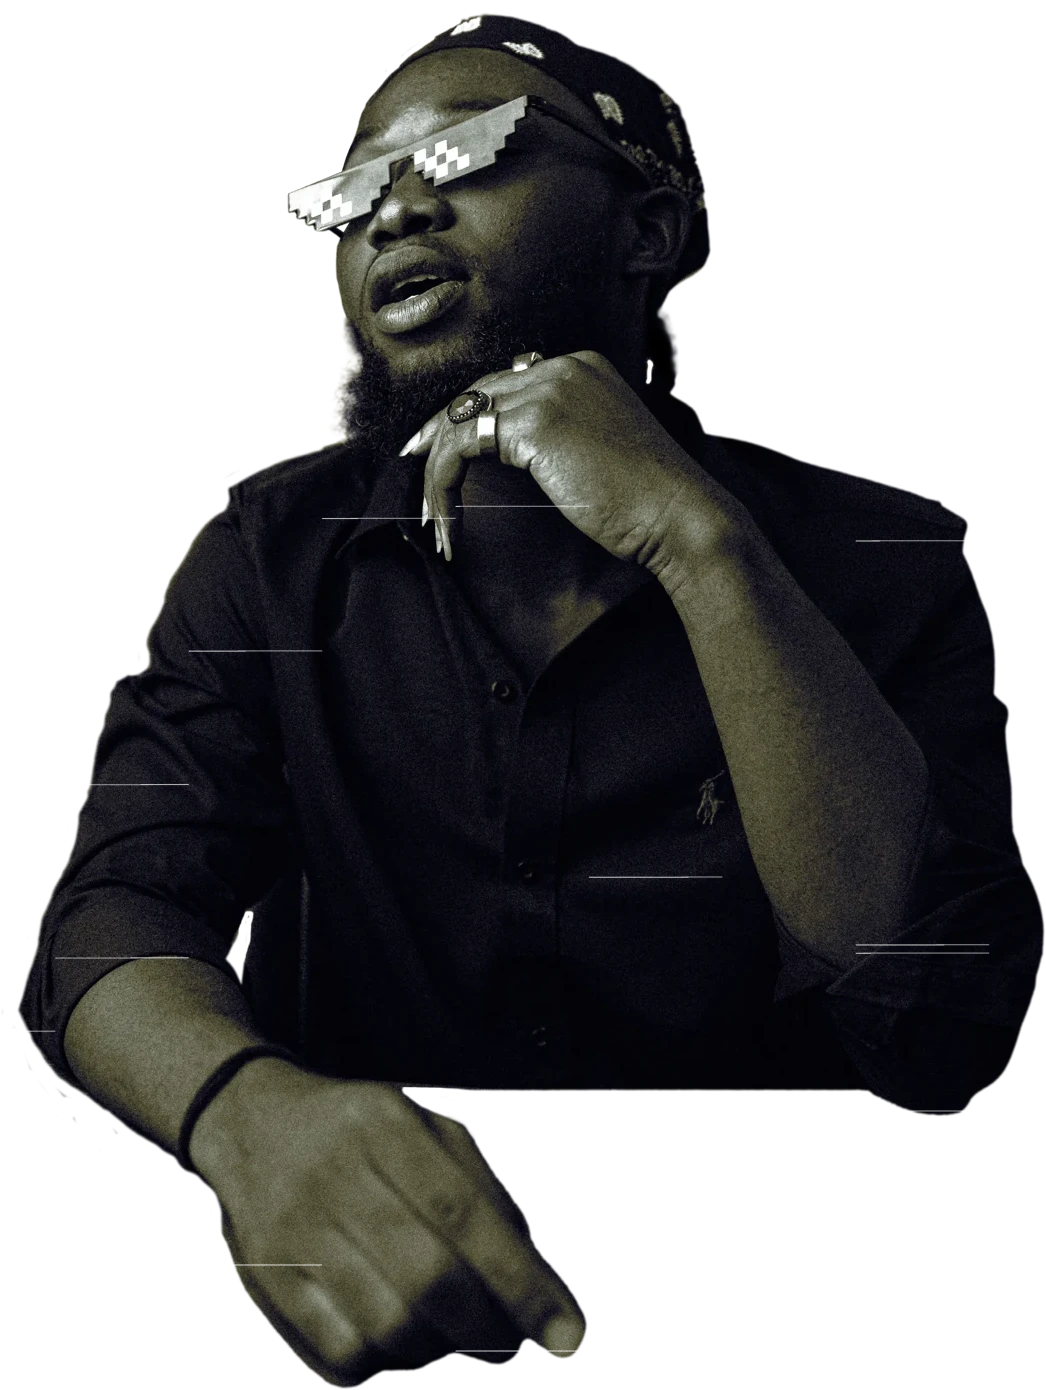
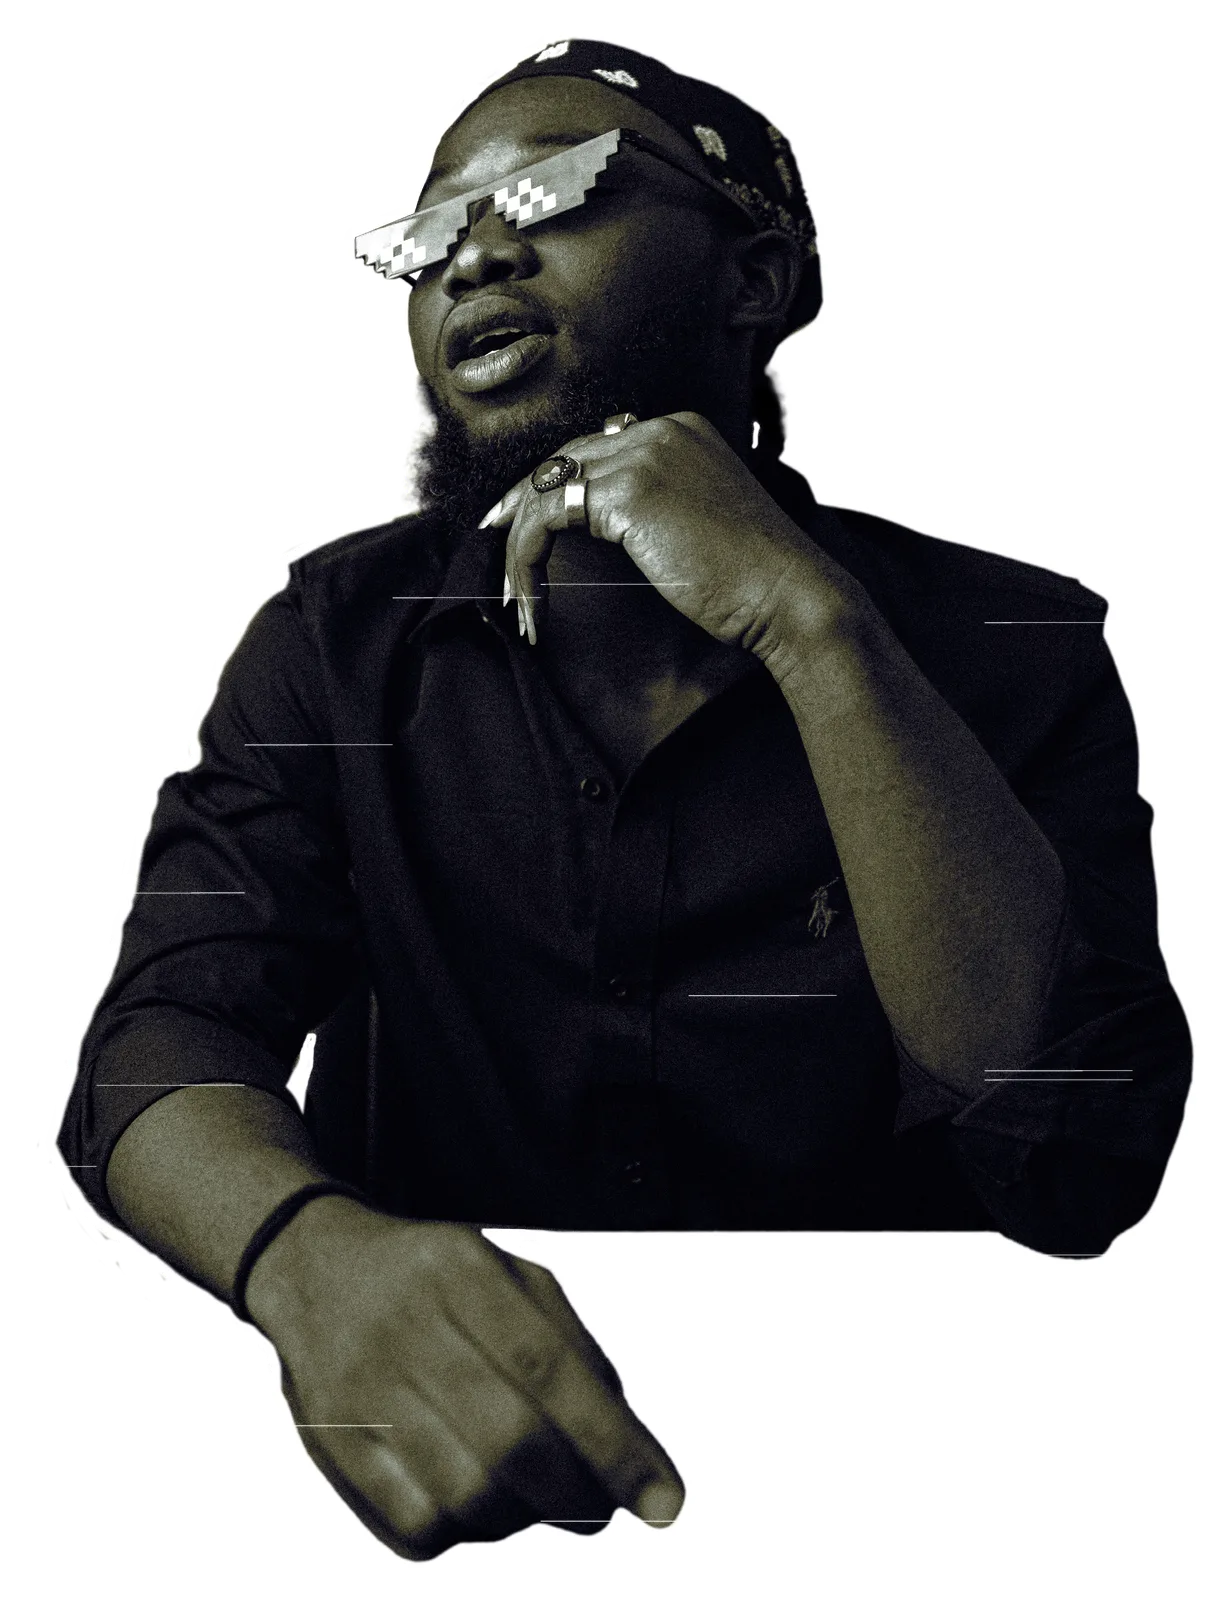
Scope the backdrop yellow to the Dade Tse page; match the artist portrait to the portfolio spread with its white outline

diff --git a/src/components/sections/about.tsx b/src/components/sections/about.tsx
@@ -14,7 +14,7 @@ export function About() {
   const portrait = artwork("artist-portrait");
   return (
     <Section theme="lime" id="about" flush aria-labelledby="about-title">
-      <Container className="grid gap-10 py-20 sm:py-24 lg:grid-cols-[minmax(0,1fr)_minmax(0,46%)] lg:gap-8 lg:py-0">
+      <Container className="grid gap-10 py-20 sm:py-24 lg:grid-cols-[minmax(0,1fr)_minmax(0,44%)] lg:gap-8 lg:py-0">
         <div className="lg:self-center lg:py-28">
           <Reveal>
             <h2 id="about-title" className="display text-6xl sm:text-7xl lg:text-8xl">
@@ -49,14 +49,16 @@ export function About() {
           </Reveal>
         </div>
 
-        {/* On large screens the column stretches to the row height and the
-            portrait covers it, anchored to the top so the head stays in frame
-            and the crop happens at the bottom, like the page edge in the PDF.
-            Negative right margins run it past the container to the viewport. */}
+        {/* Matches the PDF spread: the cut-out starts just past the middle of
+            the page, its head sits about 12% down, and it runs off the right
+            and bottom edges (the figure is ~1.2× the page height). The column
+            stretches to the row height; the image is sized from that height
+            and the section's overflow-hidden does the cropping. Negative right
+            margins run the column past the container to the viewport. */}
         <Reveal
           delay={0.15}
           distance={40}
-          className="relative lg:-mr-12 lg:min-h-[46rem] xl:-mr-[calc((100vw-80rem)/2+3rem)]"
+          className="relative lg:-mr-12 lg:min-h-[44rem] xl:-mr-[calc((100vw-80rem)/2+3rem)]"
         >
           <Image
             src={portrait.src}
@@ -64,10 +66,15 @@ export function About() {
             width={portrait.width}
             height={portrait.height}
             sizes="(min-width: 1024px) 50vw, 80vw"
-            className="mx-auto h-auto w-[min(100%,28rem)] lg:absolute lg:inset-x-0 lg:top-10 lg:bottom-0 lg:mx-0 lg:h-[calc(100%-2.5rem)] lg:w-full lg:object-cover lg:object-top"
+            className="mx-auto h-auto w-[min(100%,30rem)] lg:absolute lg:left-0 lg:top-[12%] lg:mx-0 lg:h-[130%] lg:w-auto lg:max-w-none"
           />
         </Reveal>
-        <PageCaption label="Meet the artist" className="pb-8 lg:col-span-2 lg:pb-10" />
+        {/* As on the spread, the hairline and caption run over the photo; the
+            right-hand caption turns lime where it sits on the dark figure. */}
+        <PageCaption
+          label="Meet the artist"
+          className="relative z-10 pb-8 lg:col-span-2 lg:pb-10 lg:[&>span:last-child]:text-lime"
+        />
       </Container>
     </Section>
   );

diff --git a/src/app/globals.css b/src/app/globals.css
@@ -8,10 +8,10 @@
   --color-ink: #0f0f0f;
   --color-ink-soft: #1c1c1c;
   --color-ink-mute: #3a3a36;
-  /* The artist's yellow, sampled from the Dade Tse backdrop file. */
-  --color-lime: #ffdd30;
-  --color-lime-bright: #ffe766;
-  --color-lime-deep: #e9c51c;
+  /* The portfolio lime: the site-wide yellow. */
+  --color-lime: #e8e78a;
+  --color-lime-bright: #f2f1ad;
+  --color-lime-deep: #d4d262;
   --color-paper: #f3f3f3;
   --color-paper-deep: #e4e4e2;
   --color-on-lime: #17151a;
@@ -84,6 +84,15 @@
   --pattern: color-mix(in oklab, var(--color-ink) 5%, transparent);
   --focus: var(--color-ink);
   color-scheme: light;
+}
+
+/* The Dade Tse page alone uses the brighter yellow sampled from the
+   character's backdrop file. Overriding the token here re-colours every
+   lime theme, utility and mix inside the page. */
+.dade-tse-palette {
+  --color-lime: #ffdd30;
+  --color-lime-bright: #ffe766;
+  --color-lime-deep: #e9c51c;
 }
 
 /* Expose the semantic variables to Tailwind utilities (bg-surface, text-fg …). */

diff --git a/src/app/dade-tse/page.tsx b/src/app/dade-tse/page.tsx
@@ -24,7 +24,7 @@ export default function CharacterPage() {
   const main = artwork(character.mainImage);
 
   return (
-    <>
+    <div className="dade-tse-palette">
       {/* 1. The graffiti wordmark on the artist's own yellow backdrop. */}
       <Section
         theme="lime"
@@ -183,6 +183,6 @@ export default function CharacterPage() {
           <ShopComingSoon variant="compact" />
         </Container>
       </Section>
-    </>
+    </div>
   );
 }
